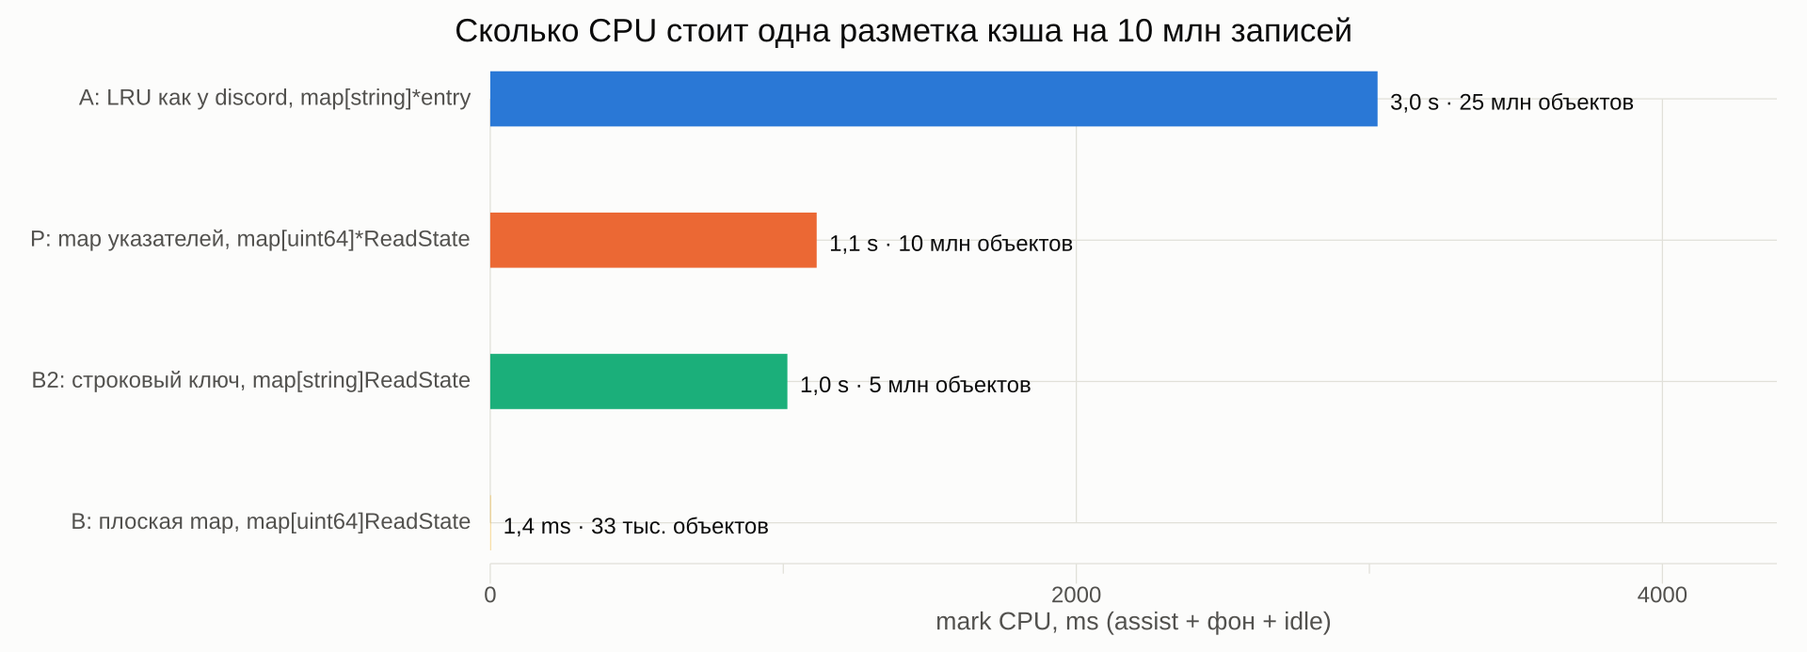
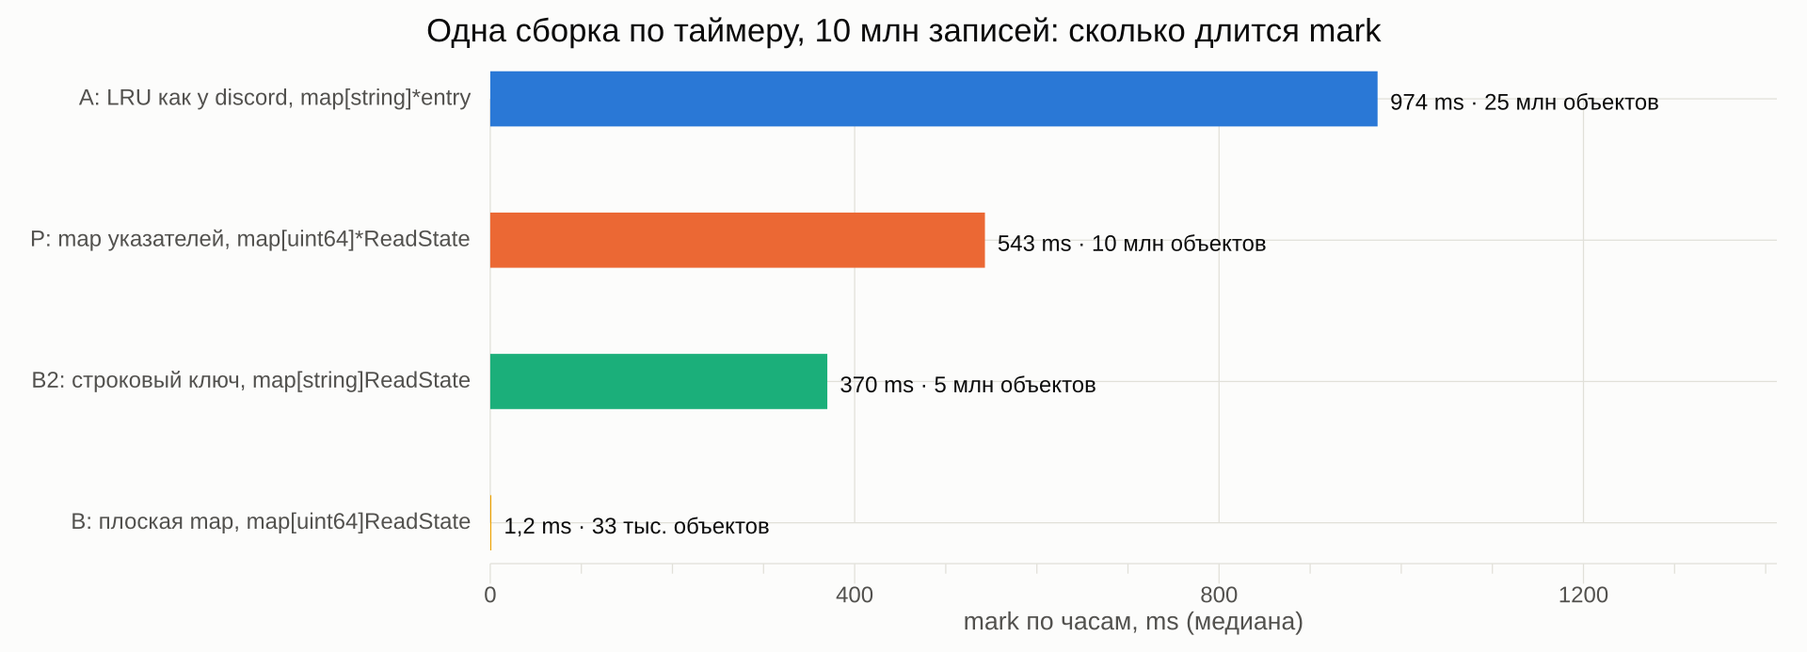
docs(001): lead with actions, charts follow as evidence
Сверху карточки было → стало с эффектом из сборки по таймеру и способ
прикинуть цену у себя (runtime/metrics, pprof inuse_objects, gctrace).
Главный график и картинка 01 переведены на сборку по таймеру, как в посте.
Методика, рост с размером и сводная таблица ушли в раскрывающийся блок.

diff --git a/001-gc-pointers/index.html b/001-gc-pointers/index.html
@@ -3,10 +3,10 @@
 <head>
 <meta charset="utf-8">
 <meta name="viewport" content="width=device-width, initial-scale=1, viewport-fit=cover">
-<meta name="description" content="Замер на Go 1.27.1: сколько CPU стоит разметка GC для кэша на 10 млн записей с указателями и без.">
+<meta name="description" content="Кейс discord на Go 1.27.1: сколько стоит сборка мусора для кэша на 10 млн записей с указателями и без, и что с этим делать.">
 <link rel="icon" href="../favicon.svg" type="image/svg+xml">
 <link rel="apple-touch-icon" href="../apple-touch-icon.png">
-<title>Указатели и GC в Go · замер 001</title>
+<title>Сколько стоит указатель · замер 001</title>
 <link rel="preconnect" href="https://fonts.googleapis.com">
 <link rel="preconnect" href="https://fonts.gstatic.com" crossorigin>
 <link rel="stylesheet" href="https://fonts.googleapis.com/css2?family=Onest:wght@400;500;600&family=Unbounded:wght@500;700&family=JetBrains+Mono:wght@400;600&display=swap">
@@ -109,6 +109,23 @@ details summary { cursor: pointer; font: 500 15px var(--font-body); color: var(-
 footer { color: var(--muted); font-size: 13px; display: grid; gap: 6px; border-top: 1px solid var(--line); padding-top: 18px; }
 footer a { color: var(--ink-2); }
 footer pre { margin: 0; font: 400 12px/1.5 var(--font-mono); white-space: pre-wrap; }
+.acts { display: grid; grid-template-columns: repeat(auto-fit, minmax(300px, 1fr)); gap: 12px; }
+.act { background: var(--surface); border: 1px solid var(--line); border-radius: 10px; padding: 16px; display: grid; gap: 10px; align-content: start; min-width: 0; }
+.act h3 { font: 600 15px/1.3 var(--font-body); margin: 0; text-wrap: balance; }
+.swap { display: grid; gap: 6px; }
+.swap div { display: grid; grid-template-columns: 48px 1fr; gap: 8px; align-items: baseline; min-width: 0; }
+.swap span { font: 600 10.5px/1 var(--font-mono); letter-spacing: .06em; text-transform: uppercase; color: var(--muted); }
+.swap code { font-size: 12.5px; white-space: pre-wrap; overflow-wrap: anywhere; }
+.swap .now code { color: var(--accent); }
+.act p { color: var(--ink-2); font-size: 13.5px; }
+.effect { font: 600 13px/1.4 var(--font-mono); color: var(--ink); border-top: 1px solid var(--line); padding-top: 10px; }
+.effect.na { font-weight: 400; color: var(--muted); }
+.callout { background: var(--surface); border: 1px solid var(--line); border-radius: 10px; padding: 14px 16px; color: var(--ink-2); font-size: 14.5px; max-width: 76ch; }
+pre.cmd { background: var(--surface); border: 1px solid var(--line); border-radius: 10px; padding: 14px 16px; overflow-x: auto; font: 400 12.5px/1.6 var(--font-mono); margin: 0; color: var(--ink); }
+pre.cmd .c { color: var(--muted); }
+.steps { display: grid; gap: 12px; max-width: 80ch; }
+.more { display: grid; gap: 28px; }
+details.more > summary { font: 500 16px var(--font-display); color: var(--ink); }
 @media (max-width: 560px) { .wrap { padding-inline: 16px; gap: 36px; } .kpi .v { font-size: 26px; } }
 @media (prefers-reduced-motion: reduce) { .tip { transition: none; } }
 </style>
@@ -118,8 +135,8 @@ footer pre { margin: 0; font: 400 12px/1.5 var(--font-mono); white-space: pre-wr
 <div class="wrap">
   <header>
     <div class="eyebrow"><a href="../" class="back">go-benchmarks</a> · замер 001 · Go 1.27.1 · i7-6700</div>
-    <h1>Указатели и сборка мусора</h1>
-    <p class="lede">Десять миллионов одинаковых записей <code>ReadState</code> в четырёх раскладках. Данные одни и те же, меняется только число указателей. Смотрим, сколько стоит одна разметка и что происходит, когда сборку раз в две минуты запускает таймер.</p>
+    <h1>Сколько стоит указатель</h1>
+    <p class="lede">Если в памяти сервиса живут миллионы объектов (кэш, индекс, in-memory репозиторий), сборщик мусора обходит каждый из них на каждой сборке. Замер повторяет кейс discord на Go 1.27.1: одни и те же 10 млн записей в четырёх раскладках. Ниже сначала что делать, потом как проверить свой сервис, потом графики.</p>
   </header>
 
   <div class="kpis" id="kpis"></div>
@@ -127,8 +144,40 @@ footer pre { margin: 0; font: 400 12px/1.5 var(--font-mono); white-space: pre-wr
   <section>
     <div class="head">
       <div>
-        <h2>Одна разметка, четыре раскладки</h2>
-        <p class="note">CPU фазы mark для кэша на 10 млн записей, медиана по семи вызовам <code>runtime.GC()</code>. На линейной шкале вариант без указателей не виден вовсе.</p>
+        <h2>Что делать</h2>
+        <p class="note">Касается только того, что живёт долго и в миллионах экземпляров. Временные объекты на запрос к моменту сборки уже мёртвые, сборщик их не обходит. Эффект ниже измерен на сборке по таймеру, 10 млн записей, mark по часам.</p>
+      </div>
+    </div>
+    <div class="acts" id="acts"></div>
+    <div class="callout"><b>Что не помогает.</b> <code>GOGC</code> и <code>GOMEMLIMIT</code> меняют, как часто сборка приходит из-за роста кучи. Сборку по таймеру раз в две минуты они не отменяют, и каждая такая сборка обходит все живые объекты. <code>GOGC=off</code> выключает и её, но тогда куча растёт без сборок вообще.</div>
+  </section>
+
+  <section>
+    <div class="head">
+      <div>
+        <h2>Как прикинуть цену у себя</h2>
+        <p class="note">Цена разметки примерно равна числу живых объектов, умноженному на задержку памяти. На i7-6700 вышло около 100 ns CPU на объект. На другом железе число будет другим, но порядок тот же: миллион долгоживущих объектов стоит порядка 100 ms CPU на каждую сборку.</p>
+      </div>
+    </div>
+    <div class="steps">
+      <p class="note"><b>1. Сколько объектов живёт в куче.</b> Метрика из стандартной библиотеки:</p>
+      <pre class="cmd">s := []metrics.Sample{{Name: "/gc/heap/objects:objects"}}
+metrics.Read(s) <span class="c">// import "runtime/metrics"</span>
+n := s[0].Value.Uint64()
+fmt.Printf("~%v CPU на сборку\n", time.Duration(n)*100) <span class="c">// ~100 ns на объект</span></pre>
+      <p class="note"><b>2. Какие типы их держат.</b> Heap-профиль по числу объектов, <code>top</code> покажет, где создаются самые многочисленные:</p>
+      <pre class="cmd">go tool pprof -sample_index=inuse_objects http://localhost:6060/debug/pprof/heap</pre>
+      <p class="note"><b>3. Сколько длится сборка на самом деле.</b> Второе число в <code>ms clock</code> это mark по часам, строки после <code>GC forced</code> запустил таймер:</p>
+      <pre class="cmd">GODEBUG=gctrace=1 ./app 2&gt;&amp;1 | grep -A1 "GC forced"
+<span class="c">gc 15 @128.984s 0%: 0.047+1001+0.004 ms clock, ...</span></pre>
+    </div>
+  </section>
+
+  <section>
+    <div class="head">
+      <div>
+        <h2>Одна сборка, четыре раскладки</h2>
+        <p class="note">Сборка по таймеру в полном простое, mark по часам, медиана. Данные одинаковые, меняется только число указателей на запись. На линейной шкале плоская map не видна вовсе.</p>
       </div>
       <div class="seg" role="group" aria-label="Шкала">
         <button type="button" id="hero-lin" aria-pressed="true">линейная</button>
@@ -141,22 +190,8 @@ footer pre { margin: 0; font: 400 12px/1.5 var(--font-mono); white-space: pre-wr
   <section>
     <div class="head">
       <div>
-        <h2>Как цена растёт с размером кэша</h2>
-        <p class="note">От 100 тыс. до 10 млн записей. У трёх вариантов с указателями цена растёт линейно с числом записей, у плоской map почти стоит на месте. Обе оси логарифмические.</p>
-      </div>
-      <div class="seg" role="group" aria-label="Сборка Go">
-        <button type="button" data-build="green" aria-pressed="true">Green Tea</button>
-        <button type="button" data-build="nogreen" aria-pressed="false">без Green Tea</button>
-      </div>
-    </div>
-    <div class="card"><div class="legend" id="lg-scaling"></div><div class="chart" id="c-scaling"></div></div>
-  </section>
-
-  <section>
-    <div class="head">
-      <div>
         <h2>Сборщик считает объекты</h2>
-        <p class="note">Те же 20 прогонов, две оси X. Плоская map на 426 MB размечается за миллисекунду, кэш на указателях того же объёма за секунду. По числу объектов в куче все четыре варианта ложатся на одну линию: от 80 до 200 ns CPU на объект в зависимости от варианта и режима.</p>
+        <p class="note">20 прогонов с <code>runtime.GC()</code> от 100 тыс. до 10 млн записей. По объёму памяти точки разбросаны на три порядка: плоская map на 426 MB стоит миллисекунду. По числу объектов все варианты ложатся на одну линию.</p>
       </div>
     </div>
     <div class="two">
@@ -168,8 +203,8 @@ footer pre { margin: 0; font: 400 12px/1.5 var(--font-mono); white-space: pre-wr
   <section>
     <div class="head">
       <div>
-        <h2>Сборки по таймеру в простое</h2>
-        <p class="note">Программа заливает кэш и спит 11 минут без единой аллокации. Сборки запускает только <code>forcegcperiod</code>, раз в две минуты. Каждая точка: одна такая сборка первого прогона, кольцо: без Green Tea. У A каждая сборка занимает около секунды на двух фоновых воркерах, idle-воркеры в простое не подключаются.</p>
+        <h2>Кейс discord: сборка раз в две минуты</h2>
+        <p class="note">Программа заливает кэш и 11 минут не делает ничего. Сборки всё равно приходят раз в две минуты, и LRU каждый раз занимает два ядра из восьми примерно на секунду. Кольцо: без Green Tea.</p>
       </div>
       <div class="seg" role="group" aria-label="Метрика" id="tl-metric">
         <button type="button" data-m="mark" aria-pressed="true">по часам</button>
@@ -177,14 +212,13 @@ footer pre { margin: 0; font: 400 12px/1.5 var(--font-mono); white-space: pre-wr
       </div>
     </div>
     <div class="card"><div class="legend" id="lg-timeline"></div><div class="chart" id="c-timeline"></div></div>
-    <div class="tablewrap"><table id="t-timer"></table></div>
   </section>
 
   <section>
     <div class="head">
       <div>
-        <h2>Green Tea GC</h2>
-        <p class="note">С Go 1.26 сборщик Green Tea включён по умолчанию и обходит память страницами: копит работу по спанам и сканирует объекты одного спана вместе. В сборках по таймеру он размечает кэш A в 2,7 раза быстрее по часам и в 1,5 раза дешевле по CPU. Разница между этими числами видна в gctrace: с Green Tea работают оба фоновых воркера (CPU вдвое больше часов), без него почти всегда один (CPU равен часам). При <code>runtime.GC()</code> на восьми воркерах выигрыш у A около 20% по CPU. Точка: медиана, линия: от минимума до максимума.</p>
+        <h2>Green Tea помог, но не отменил</h2>
+        <p class="note">С Go 1.26 новый сборщик включён по умолчанию. Сборку LRU он ускорил в 2,7 раза по часам, плоская map всё равно дешевле в сотни раз. Точка: медиана, линия: от минимума до максимума.</p>
       </div>
     </div>
     <div class="card"><div class="legend" id="lg-green"></div><div class="chart" id="c-green"></div></div>
@@ -194,36 +228,45 @@ footer pre { margin: 0; font: 400 12px/1.5 var(--font-mono); white-space: pre-wr
     <div class="head">
       <div>
         <h2>Где в Go прячутся указатели</h2>
-        <p class="note">Сборщик заходит внутрь объекта, только если в его типе есть хоть одно поле-указатель. Тип без указателей помечается <code>noscan</code> при аллокации, и mark его не читает. Проверить можно так: если тип состоит только из чисел, <code>bool</code> и массивов из них, он noscan.</p>
+        <p class="note">Сборщик заходит внутрь объекта, если в его типе есть хоть одно поле-указатель. Тип только из чисел, <code>bool</code> и массивов из них он пропускает целиком.</p>
       </div>
     </div>
     <div class="types" id="types"></div>
   </section>
 
-  <section>
-    <div class="head">
-      <div>
-        <h2>Что делать с большим кэшем</h2>
-        <p class="note">Касается только того, что живёт долго и в миллионах экземпляров: кэши, индексы, in-memory репозитории. Временные объекты на запрос к моменту сборки уже мёртвые, сборщик их не обходит, они влияют только на то, как часто сборка приходит.</p>
-        <p class="note"><b>Правило на пальцах:</b> цена разметки равна числу живых объектов, умноженному на задержку памяти. На i7-6700 вышло около 100 ns CPU на объект (от 80 до 200 в зависимости от варианта и режима). На другом железе число будет другим, но порядок сохранится: это задержка оперативной памяти, у современных серверов она одного порядка. Миллион долгоживущих объектов стоит порядка 100 ms CPU на каждую сборку, и по таймеру сборка придёт даже в полном простое.</p>
-        <p class="note">Способы ниже идут по возрастанию усилий. Первые два закрывают большинство случаев.</p>
-      </div>
-    </div>
-    <ol class="fixes">
-      <li><div><b>Ключ числом, значение структурой без указателей.</b> <code>map[uint64]T</code> вместо <code>map[string]*T</code>. Строковый ключ превращается в хэш или id. В замере это разница между 3 s и 1,4 ms CPU на одну разметку.</div></li>
-      <li><div><b>Значение вместо указателя.</b> <code>map[K]T</code> вместо <code>map[K]*T</code>, <code>[]T</code> вместо <code>[]*T</code>. Минус один объект на запись и один указатель в слоте.</div></li>
-      <li><div><b>Строки в один большой буфер.</b> Байты всех строк лежат в одном <code>[]byte</code>, в записи хранится смещение и длина (<code>uint32</code>). Так устроены <code>bigcache</code> и <code>freecache</code>.</div></li>
-      <li><div><b>Списки и деревья на индексах.</b> <code>prev</code> и <code>next</code> как <code>int32</code>-индексы в слайсе узлов вместо <code>*entry</code>. LRU остаётся LRU, сборщику обходить нечего.</div></li>
-      <li><div><b>Крутить <code>GOGC</code> и <code>GOMEMLIMIT</code>.</b> Реже собирает, но не дешевле: сборку по таймеру это не отменяет, и каждая всё так же обходит все объекты.</div></li>
-    </ol>
-  </section>
+  <details class="more">
+    <summary>Подробности: методика, рост с размером, все конфигурации</summary>
 
-  <section>
-    <details>
-      <summary>Все конфигурации: сводная таблица</summary>
-      <div class="tablewrap" style="margin-top:12px"><table id="t-all"></table></div>
-    </details>
-  </section>
+    <section>
+      <div class="head">
+        <div>
+          <h2>Как мерил</h2>
+          <p class="note">Два режима. <b>Таймер</b>: 10 млн записей, 11 минут простоя без аллокаций, сборки запускает только <code>forcegcperiod</code>; три прогона для LRU и плоской map с Green Tea и LRU без него, по одному для остальных. <b><code>runtime.GC()</code></b>: 8 вызовов подряд на размерах от 100 тыс. до 10 млн, один прогон на конфигурацию. Цифры из <code>GODEBUG=gctrace=1</code>, первая сборка после заливки в зачёт не идёт.</p>
+          <p class="note">Интервал между сборками равен 120 s плюс длительность прошлой сборки: рантайм отсчитывает две минуты от её конца. Без Green Tea в 14 сборках из 15 размечал фактически один фоновый воркер из двух (CPU равен часам), с Green Tea всегда оба, отсюда большая часть выигрыша по часам.</p>
+        </div>
+      </div>
+      <div class="tablewrap"><table id="t-timer"></table></div>
+    </section>
+
+    <section>
+      <div class="head">
+        <div>
+          <h2>Рост с размером кэша</h2>
+          <p class="note">Вызовы <code>runtime.GC()</code>, CPU разметки. У вариантов с указателями цена растёт вместе с числом записей, у плоской map почти стоит на месте.</p>
+        </div>
+        <div class="seg" role="group" aria-label="Сборка Go">
+          <button type="button" data-build="green" aria-pressed="true">Green Tea</button>
+          <button type="button" data-build="nogreen" aria-pressed="false">без Green Tea</button>
+        </div>
+      </div>
+      <div class="card"><div class="legend" id="lg-scaling"></div><div class="chart" id="c-scaling"></div></div>
+    </section>
+
+    <section>
+      <h2>Все конфигурации</h2>
+      <div class="tablewrap"><table id="t-all"></table></div>
+    </section>
+  </details>
 
   <footer>
     <div>Цифры сняты из строк <span class="mono">GODEBUG=gctrace=1</span>. Первая сборка после заливки в каждом прогоне считается прогревом и в статистику не входит. Код, сырые логи, методика и гипотеза до прогона: <a href="https://github.com/Faustze/go-benchmarks/tree/main/001-gc-pointers">github.com/Faustze/go-benchmarks/tree/main/001-gc-pointers</a>.</div>
@@ -335,40 +378,64 @@ const tipHtml = c => `<b>${NAME[c.variant]}</b><br><span class="mono">${PTRS[c.v
 
 // ---------- KPI ----------
 function renderKpis() {
-  const a = cfg("forced", "a", "green", 1e7), b = cfg("forced", "b", "green", 1e7);
-  const ta = cfg("timer", "a", "green");
+  const ta = cfg("timer", "a", "green"), tb = cfg("timer", "b", "green"), tn = cfg("timer", "a", "nogreen");
   const tiles = [];
-  if (a && b) {
-    tiles.push([`×${fmtNum(a.mark_cpu_ms.median / b.mark_cpu_ms.median, 0)}`, "во столько раз разметка кэша на указателях дороже плоской map с теми же данными"]);
-    tiles.push([fmtMs(a.mark_cpu_ms.median), "CPU на одну разметку LRU на 10 млн записей. В гипотезе было 60 ms"]);
-    tiles.push([`${fmtNum(a.mark_cpu_ms.median * 1e6 / a.objects, 0)} ns`, "CPU на один объект в куче. Столько стоит промах кэша процессора: сама проверка указателя занимает около наносекунды"]);
+  if (ta && tb && ta.gcs && tb.gcs) {
+    tiles.push([`×${fmtNum(ta.mark_clock_ms.median / tb.mark_clock_ms.median, 0)}`, "во столько раз сборка плоской map короче, чем LRU как у discord, при тех же 10 млн записей"]);
+    tiles.push([fmtMs(ta.mark_clock_ms.median), `длится сборка LRU раз в ${fmtNum(ta.interval_s.min, 0)}–${fmtNum(ta.interval_s.max, 0)} s даже в полном простое, на двух ядрах из восьми`]);
   }
-  if (ta && ta.gcs > 0) {
-    tiles.push([fmtMs(ta.mark_clock_ms.median), `mark по часам в каждой сборке по таймеру, раз в ${fmtNum(ta.interval_s.min, 0)}–${fmtNum(ta.interval_s.max, 0)} s в полном простое`]);
-  } else {
-    tiles.push(["идёт", "прогон сборок по таймеру: 12 запусков по 11 минут, страница обновится с данными"]);
+  tiles.push(["≈100 ns", "CPU на каждый живой объект за сборку. Миллион долгоживущих объектов стоит порядка 100 ms на каждую сборку"]);
+  if (ta && tn && ta.gcs && tn.gcs) {
+    tiles.push([`×${fmtNum(tn.mark_clock_ms.median / ta.mark_clock_ms.median, 1)}`, "ускорил сборку LRU Green Tea. Разница с плоской map осталась в сотни раз"]);
   }
   document.getElementById("kpis").innerHTML = tiles.map(([v, l]) => `<div class="kpi"><div class="v">${v}</div><div class="l">${l}</div></div>`).join("");
+}
+
+// ---------- actions ----------
+const ACTS = [
+  { t: "Ключ числом, запись значением", was: "map[string]*Entry", now: "map[uint64]Entry", from: "a", to: "b",
+    p: "Строковый ключ превращается в хэш или числовой id, запись хранится значением без указателей внутри. В замере «было» это LRU как у discord: такая map плюс двусвязный список." },
+  { t: "Значение вместо указателя", was: "map[K]*T\n[]*T", now: "map[K]T\n[]T", from: "p", to: "b",
+    p: "Минус один объект и один указатель на каждую запись. Работает, если T сам без указателей." },
+  { t: "Ключ без строки", was: "map[string]T", now: "map[uint64]T", from: "b2", to: "b",
+    p: "Строка это указатель на байты. Один строковый ключ заставляет сборщик обходить всю map, даже если значения плоские." },
+  { t: "Поля без скрытых указателей", was: "CreatedAt time.Time\nID        string\nMeta      any", now: "CreatedAt int64\nID        [16]byte\nMeta      Meta",
+    p: "В time.Time прячется *Location, в string и any тоже указатели. Одно такое поле делает сканируемой всю структуру.", na: "отдельно не мерил, механизм тот же" },
+  { t: "Связи через индексы", was: "prev, next *entry", now: "prev, next int32 // индексы в []entry",
+    p: "LRU, списки и деревья можно держать в слайсе узлов. В LRU из замера prev и next дают 2 указателя из 6 на запись.", na: "отдельно не мерил" },
+  { t: "Строки в одном буфере", was: "[]string", now: "buf  []byte\nspan []struct{ off, n uint32 }",
+    p: "Байты всех строк лежат в одном []byte, запись хранит смещение и длину. Так устроены bigcache и freecache.", na: "отдельно не мерил" },
+];
+const esc = t => t.replace(/&/g, "&amp;").replace(/</g, "&lt;");
+function renderActions() {
+  document.getElementById("acts").innerHTML = ACTS.map(a => {
+    let eff = `<div class="effect na">${a.na || ""}</div>`;
+    if (a.from) {
+      const f = cfg("timer", a.from, "green"), t = cfg("timer", a.to, "green");
+      if (f && t && f.gcs && t.gcs) eff = `<div class="effect">${fmtMs(f.mark_clock_ms.median)} → ${fmtMs(t.mark_clock_ms.median)} на сборку<br><span style="font-weight:400;color:var(--muted)">${NAME[a.from].split(" · ")[1]} → ${NAME[a.to].split(" · ")[1]}</span></div>`;
+    }
+    return `<div class="act"><h3>${a.t}</h3><div class="swap"><div><span>было</span><code>${esc(a.was)}</code></div><div class="now"><span>стало</span><code>${esc(a.now)}</code></div></div><p>${a.p}</p>${eff}</div>`;
+  }).join("");
 }
 
 // ---------- 1. hero bars ----------
 let heroLog = false;
 function renderHero() {
   const host = document.getElementById("c-hero");
-  const rows = ORDER.map(v => cfg("forced", v, "green", 1e7)).filter(Boolean);
+  const rows = ORDER.map(v => cfg("timer", v, "green")).filter(c => c && c.gcs);
   if (!rows.length) { host.innerHTML = `<div class="empty">нет данных</div>`; return; }
   const narrow = host.clientWidth < 560;
   const f = frame(host, { height: 70 + rows.length * 58, left: narrow ? 12 : 220, right: narrow ? 20 : 150, top: narrow ? 20 : 8, bottom: 44 });
-  const max = Math.max(...rows.map(r => r.mark_cpu_ms.median));
+  const max = Math.max(...rows.map(r => r.mark_clock_ms.median));
   const sx = heroLog ? scale("log", logDomain(0.5, max), [f.x0, f.x1]) : scale("lin", [0, max * 1.05], [f.x0, f.x1]);
   const band = (f.y0 - f.y1) / rows.length;
   axes(f, sx, () => 0, {
     xTicks: heroLog ? sx.ticks() : sx.ticks(), yTicks: [], xFmt: v => heroLog ? fmtNum(v, 1) : fmtNum(v, 0), yFmt: () => "",
-    xTitle: "mark CPU, ms (assist + фон + idle)",
+    xTitle: "mark по часам, ms (медиана сборок по таймеру)",
   });
   rows.forEach((c, i) => {
     const yc = f.y1 + band * i + band / 2 + (narrow ? 8 : 0);
-    const v = c.mark_cpu_ms.median;
+    const v = c.mark_clock_ms.median;
     const x0 = heroLog ? sx(logDomain(0.5, max)[0]) : sx(0);
     const w = Math.max(2, sx(v) - x0);
     const h = 22, r = Math.min(4, w / 2);
@@ -512,8 +579,8 @@ function renderGreen() {
 // ---------- types ----------
 const TYPES = [
   ["int, float64, bool, [16]byte", false, "Числа и массивы чисел. Сборщик пометит объект живым и внутрь заходить не будет."],
-  ["struct{ ID uint64; N uint32 }", false, "Структура из чисел тоже noscan. Именно так лежит ReadState в варианте B."],
-  ["string", true, "Указатель на байты плюс длина. Ключ map[string]T делает всю map сканируемой: вариант B2 дороже B в 700 раз."],
+  ["struct{ ID uint64; N uint32 }", false, "Структура из чисел тоже noscan. Именно так лежит ReadState в плоской map."],
+  ["string", true, "Указатель на байты плюс длина. Ключ map[string]T заставляет сборщик обходить всю map: в простое она в 300 раз дороже map[uint64]T с теми же значениями."],
   ["[]T", true, "Указатель на массив, длина и ёмкость. Слайс из чисел: один указатель на слайс, сам массив noscan."],
   ["*T, map, chan, func", true, "Каждый из них указатель. map[K]V сканируется, только если K или V содержат указатели."],
   ["interface{}, any, error", true, "Два слова: тип и указатель на значение. Поле any в структуре превращает её в сканируемую."],
@@ -535,7 +602,7 @@ function renderTable() {
 }
 
 function renderAll() {
-  renderKpis(); renderHero(); renderScaling(); renderPredictor(); renderTimeline(); renderGreen(); renderTable();
+  renderKpis(); renderActions(); renderHero(); renderScaling(); renderPredictor(); renderTimeline(); renderGreen(); renderTable();
 }
 
 renderTypes();
@@ -545,6 +612,7 @@ fetch("data.json").then(r => r.json()).then(d => {
   renderAll();
   let t;
   addEventListener("resize", () => { clearTimeout(t); t = setTimeout(renderAll, 150); });
+  document.querySelector("details.more").addEventListener("toggle", renderAll); // графики внутри получают ширину только после раскрытия
 }).catch(() => {
   document.getElementById("kpis").innerHTML = `<div class="kpi"><div class="l">Не удалось загрузить data.json. Страница читает результаты замера из файла рядом с собой.</div></div>`;
 });

diff --git a/001-gc-pointers/report/plots.go b/001-gc-pointers/report/plots.go
@@ -176,26 +176,25 @@ func drawAll(cs []Config) error {
 	return nil
 }
 
-// 01: одна сборка на 10 млн записей, CPU разметки по вариантам
+// 01: одна сборка по таймеру на 10 млн записей, mark по часам по вариантам
 func drawHero(cs []Config) error {
-	const n = 10_000_000
-	p := newPlot("Сколько CPU стоит одна разметка кэша на 10 млн записей", "mark CPU, ms (assist + фон + idle)", "")
+	p := newPlot("Одна сборка по таймеру, 10 млн записей: сколько длится mark", "mark по часам, ms (медиана)", "")
 	var labels []string
 	for i := len(order) - 1; i >= 0; i-- { // A сверху
 		v := order[i]
-		c := find(cs, "forced", v, "green", n)
-		if c == nil {
+		c := find(cs, "timer", v, "green", 0)
+		if c == nil || c.GCs == 0 {
 			return nil
 		}
 		pos := float64(len(labels))
 		labels = append(labels, names[v])
-		b, _ := plotter.NewBarChart(plotter.Values{c.MarkCPU.Median}, vg.Points(22))
+		b, _ := plotter.NewBarChart(plotter.Values{c.MarkClock.Median}, vg.Points(22))
 		b.Horizontal, b.XMin = true, pos
 		b.Color, b.LineStyle.Width = colors[v], 0
 		p.Add(b)
 		lb, _ := plotter.NewLabels(plotter.XYLabels{
-			XYs:    plotter.XYs{{X: c.MarkCPU.Median, Y: pos}},
-			Labels: []string{fmt.Sprintf("  %s · %s объектов", ms(c.MarkCPU.Median), human(float64(c.Objects)))},
+			XYs:    plotter.XYs{{X: c.MarkClock.Median, Y: pos}},
+			Labels: []string{fmt.Sprintf("  %s · %s объектов", ms(c.MarkClock.Median), human(float64(c.Objects)))},
 		})
 		lb.TextStyle[0].Color = ink
 		lb.TextStyle[0].YAlign = draw.YCenter
